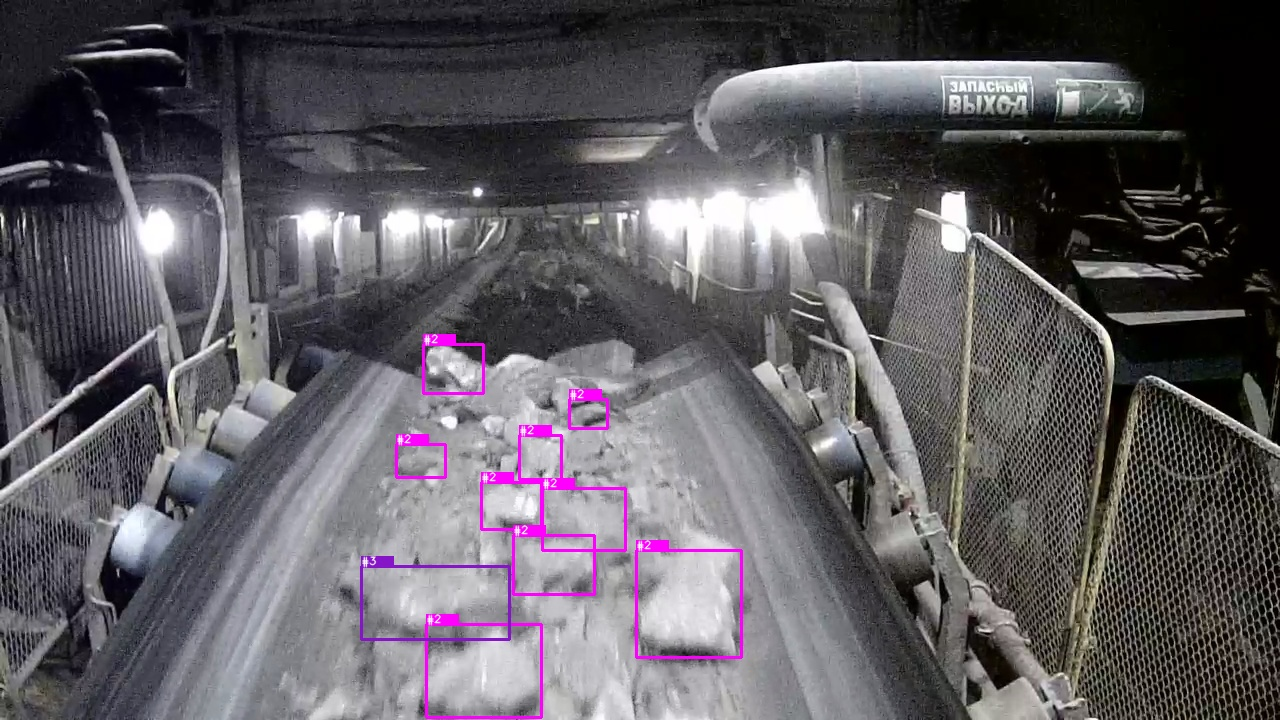
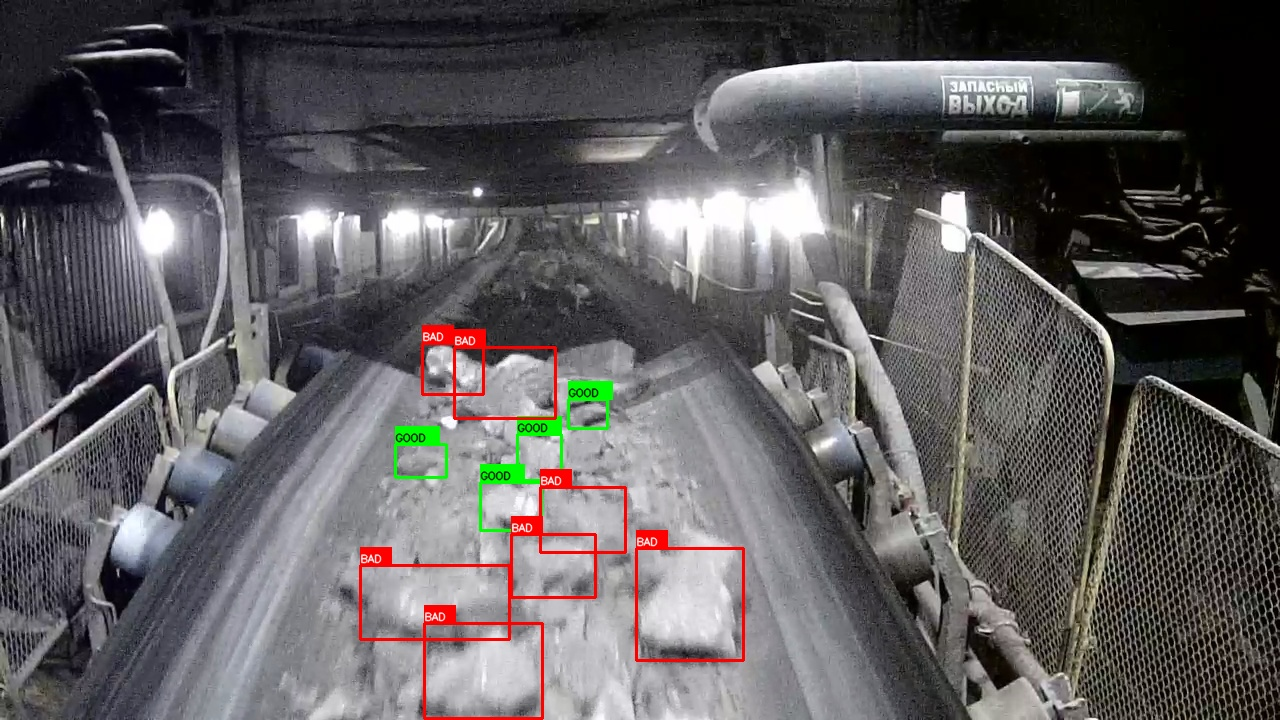
ver 0.1.1

Changed region(s): [[0.2812, 0.4278, 0.5938, 1.0]]

diff --git a/Classification.py b/Classification.py
@@ -1,59 +1,85 @@
 class Classification:
 
-    BOX_COLOR1 = (139, 0, 0)  # DarkRed
+    BOX_COLOR1 = (0, 0, 139)  # DarkRed
     BOX_COLOR2 = (255, 0, 255)  # Fuchsia
-    BOX_COLOR3 = (199, 21, 133)  # MediumVioletRed
-    BOX_COLOR4 = (0, 0, 255)  # Blue
-    BOX_COLOR5 = (30, 144, 255)  # DodgerBlue
-    BOX_COLOR6 = (0, 191, 255)  # DeepSkyBlue
-    BOX_COLOR7 = (135, 206, 250)  # LightSkyBlue
+    BOX_COLOR3 = (133, 21, 199)  # MediumVioletRed
+    BOX_COLOR4 = (255, 0, 0)  # Blue
+    BOX_COLOR5 = (255, 144, 30)  # DodgerBlue
+    BOX_COLOR6 = (255, 191, 0)  # DeepSkyBlue
+    BOX_COLOR7 = (250, 206, 135)  # LightSkyBlue
 
-    BOX_COLOR_GOOD = (0, 255, 0)
-    BOX_COLOR_BAD = (0, 0, 255) # Red (Негабарит)
+    BOX_COLOR_GOOD = (0, 255, 0)  # Green (GOOD)
+    BOX_COLOR_BAD = (0, 0, 255)  # Red (BAD)
 
-    TEXT_COLOR = (255, 255, 255)  # White
+    TEXT_COLOR_BLACK = (0, 0, 0)
+    TEXT_COLOR_WHITE = (255, 255, 255)
 
     # Classification
-    cl_1 = 100  # Негабарит
-    types_7 = {"#1": [], "#2": [], "#3": [], "#4": [], "#5": [], "#6": [], "#7": []}
-    overall_classification = {"good": [], "bad": []}
+    type_classes = {"#1": [], "#2": [], "#3": [], "#4": [], "#5": [], "#6": [], "#7": []}
+
+    size_limit = 100  # Негабарит
+    size_classes = {"GOOD": [], "BAD": []}
+
+    max_size = 0
 
 
-
-def get_good_or_bad_type(size):
+def make_type_good_or_bad(size):
     # Классификация по негабариту
-    if size < Classification.cl_1:
+    if size < Classification.size_limit:
         color = Classification.BOX_COLOR_GOOD
         text = "GOOD"
+        text_color = Classification.TEXT_COLOR_BLACK
+
     else:
         color = Classification.BOX_COLOR_BAD
         text = "BAD"
+        text_color = Classification.TEXT_COLOR_WHITE
 
-    return color, text
+    Classification.size_classes[text].append(size)
 
-def get_type(size):
-    if size > 250:
-        color = Classification.BOX_COLOR1
-        text = "#1"
-    elif size > 150 & size <= 250:
-        color = Classification.BOX_COLOR2
-        text = "#2"
-    elif size > 100 & size <= 150:
-        color = Classification.BOX_COLOR3
-        text = "#3"
-    elif size > 80 & size <= 100:
-        color = Classification.BOX_COLOR4
-        text = "#4"
-    elif size > 70 & size <= 80:
-        color = Classification.BOX_COLOR5
-        text = "#5"
-    elif size > 40 & size <= 70:
-        color = Classification.BOX_COLOR6
-        text = "#6"
-    elif size > 0 & size <= 40:
+    return color, text, text_color
+
+
+def make_type_class(size):
+    if size <= 40:
         color = Classification.BOX_COLOR7
         text = "#7"
+        text_color = Classification.TEXT_COLOR_BLACK
 
-    return color, text
+    elif size <= 70:
+        color = Classification.BOX_COLOR6
+        text = "#6"
+        text_color = Classification.TEXT_COLOR_BLACK
+
+    elif size <= 80:
+        color = Classification.BOX_COLOR5
+        text = "#5"
+        text_color = Classification.TEXT_COLOR_BLACK
+
+    elif size <= 100:
+        color = Classification.BOX_COLOR4
+        text = "#4"
+        text_color = Classification.TEXT_COLOR_WHITE
+
+    elif size <= 150:
+        color = Classification.BOX_COLOR3
+        text = "#3"
+        text_color = Classification.TEXT_COLOR_BLACK
+
+    elif size <= 250:
+        color = Classification.BOX_COLOR2
+        text = "#2"
+        text_color = Classification.TEXT_COLOR_BLACK
+
+    else:
+        color = Classification.BOX_COLOR1
+        text = "#1"
+        text_color = Classification.TEXT_COLOR_WHITE
+
+    Classification.type_classes[text].append(size)
+    return color, text + " | "+str(size), text_color
 
 
+def update_max_size(size):
+    if size > Classification.max_size:
+        Classification.max_size = size

diff --git a/main.py b/main.py
@@ -186,27 +186,6 @@ def checkAndSaveTestCocoJson(submission_path, test_dir_path, threshold, data_loa
                 size = max(x_max-x_min, y_max-y_min)
                 rec = 720 / ((y_max + y_min) / 2) * size
 
-                # if rec < cl_1:
-                #     d1["good"].append(rec)
-                # else:
-                #     d1["bad"].append(rec)
-                #
-                # if rec > 250:
-                #     d["#1"].append(rec)
-                # elif rec > 150 & rec <= 250:
-                #     d["#2"].append(rec)
-                # elif rec > 100 & rec <= 150:
-                #     d["#3"].append(rec)
-                # elif rec > 80 & rec <= 100:
-                #     d["#4"].append(rec)
-                # elif rec > 70 & rec <= 80:
-                #     d["#5"].append(rec)
-                # elif rec > 40 & rec <= 70:
-                #     d["#6"].append(rec)
-                # elif rec > 0 & rec <= 40:
-                #     d["#7"].append(rec)
-
-
 
             try:
                 drawBBox(file_name.split('.')[0], test_dir_path+file_name, boxes, 0)
@@ -256,7 +235,7 @@ if __name__ == '__main__':
     data_loader = torch.utils.data.DataLoader(my_dataset,
                                               batch_size=train_batch_size,
                                               shuffle=True,
-                                              num_workers=5,
+                                              num_workers=4,
                                               collate_fn=collate_fn)
 
     # Локальный тестовый датасет
@@ -300,5 +279,5 @@ if __name__ == '__main__':
     submission_path = "content/test.json"
     dir_path = "content/dataset_lite/train/"
     checkAndSaveTestCocoJson(submission_path, dir_path, threshold, data_loader_test)
-    print("Answer is: ", Classification.types_7)
-    print("Answer2 is: ", Classification.overall_classification)
+    print("Answer is: ", Classification.type_classes)
+    print("Answer2 is: ", Classification.size_classes)

diff --git a/Visualization.py b/Visualization.py
@@ -1,5 +1,5 @@
 import cv2 as cv2
-from Classification import get_good_or_bad_type, get_type, Classification
+from Classification import *
 
 
 def drawBBox(name, path, bboxes, c_type):
@@ -10,22 +10,26 @@ def drawBBox(name, path, bboxes, c_type):
     for bbox in bboxes:
         visualize_bbox(name, img, bbox, c_type)
 
-def visualize_bbox(name, img, bbox, c_type):
+
+def visualize_bbox(name, img, bbox, c_type):  # c_type = 0 - types, 1 - good/bad
     """Visualizes a single bounding box on the image"""
     x_min, y_min, x_max, y_max = bbox
     x_min, x_max, y_min, y_max = int(x_min), int(x_max), int(y_min), int(y_max)
-    size = max(x_max - x_min, y_max - y_min)
-    rec = 720 // ((y_max + y_min) // 2) * size
+    size = max(x_max-x_min, y_max-y_min)
+    rec = (720 / ((y_min + y_max) / 2))
+
+    print(size, rec * size)
+    size = int(rec * size)
 
     if c_type:
-        color, text = get_good_or_bad_type(rec)
+        color, text, text_color = make_type_class(size)
     else:
-        color, text = get_type(rec)
+        color, text, text_color = make_type_good_or_bad(size)
 
     cv2.rectangle(img, (x_min, y_min), (x_max, y_max), color=color, thickness=2)
 
-    ((text_width, text_height), _) = cv2.getTextSize("Stone", cv2.FONT_HERSHEY_SIMPLEX, 0.35, 1)
-    cv2.rectangle(img, (x_min, y_min - int(1.3 * text_height)), (x_min + text_width, y_min), color, -1)
+    ((text_width, text_height), _) = cv2.getTextSize(text, cv2.FONT_HERSHEY_SIMPLEX, 0.5, 1)
+    cv2.rectangle(img, (x_min, y_min - int(1.5 * text_height)), (x_min + text_width, y_min), color, -1)
 
     cv2.putText(
         img,
@@ -33,7 +37,7 @@ def visualize_bbox(name, img, bbox, c_type):
         org=(x_min, y_min - int(0.3 * text_height)),
         fontFace=cv2.FONT_HERSHEY_SIMPLEX,
         fontScale=0.35,
-        color=Classification.TEXT_COLOR,
+        color=text_color,
         lineType=cv2.LINE_AA,
     )
 
